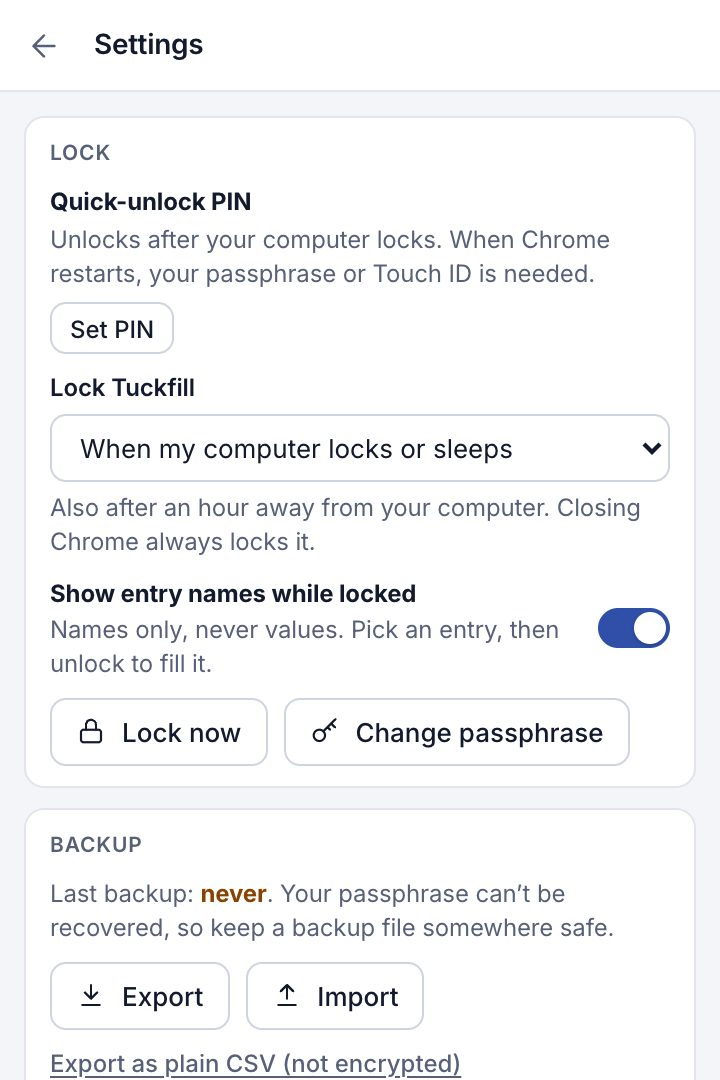
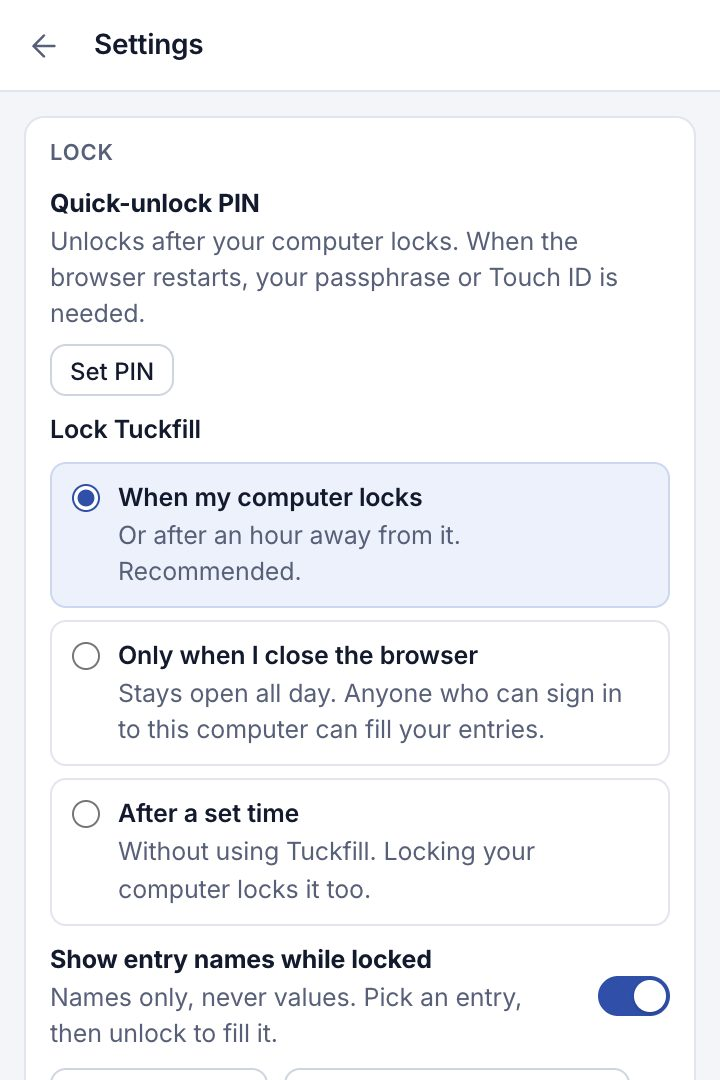
Update for 0.6.0-beta.1: Firefox and Safari install, lock per browser, fresh screenshots

Changed region(s): [[0.0611, 0.1528, 0.9472, 1.0], [0.0917, 0.1222, 0.1528, 0.1528]]

diff --git a/README.id.md b/README.id.md
@@ -12,9 +12,9 @@
 
 <p align="center">
   <img src="https://img.shields.io/badge/status-beta-ff9a3d" alt="Status: beta">
-  <img src="https://img.shields.io/badge/Chrome-Manifest%20V3-2f4fa8" alt="Chrome Manifest V3">
+  <img src="https://img.shields.io/badge/Chrome%20·%20Firefox%20·%20Safari-Manifest%20V3-2f4fa8" alt="Chrome, Firefox and Safari, Manifest V3">
   <img src="https://img.shields.io/badge/network%20requests-none-1c7c4e" alt="No network requests">
-  <img src="https://img.shields.io/badge/size-52%20KB%20gzipped-2f4fa8" alt="Size: 52 KB gzipped">
+  <img src="https://img.shields.io/badge/size-54%20KB%20gzipped-2f4fa8" alt="Size: 54 KB gzipped">
   <img src="https://img.shields.io/badge/license-MIT-131a2e" alt="License: MIT">
 </p>
 
@@ -26,7 +26,7 @@
   <img src="images/picker-set.jpg" alt="Picker Tuckfill terbuka di bawah field Corporate ID, menawarkan set yang mengisi tiga field" width="440">
 </p>
 
-Tuckfill adalah Chrome extension untuk teks yang sering kamu ketik di form: email test, password, alamat, template. Simpan sekali, lalu isi field mana pun lewat tombol kecil di dalam field-nya. Semua data tersimpan **terenkripsi di laptop kamu sendiri** dan nggak dikirim ke mana pun.
+Tuckfill adalah browser extension (Chrome, Firefox, Safari) untuk teks yang sering kamu ketik di form: email test, password, alamat, template. Simpan sekali, lalu isi field mana pun lewat tombol kecil di dalam field-nya. Semua data tersimpan **terenkripsi di laptop kamu sendiri** dan nggak dikirim ke mana pun.
 
 > Panduan ini juga ada di dalam zip Tuckfill sebagai `PANDUAN.html`. Bisa dibuka offline dan di-print ke PDF.
 
@@ -44,6 +44,10 @@ Tuckfill adalah Chrome extension untuk teks yang sering kamu ketik di form: emai
 <img src="images/install.jpg" width="720" alt="Halaman chrome://extensions dengan Developer mode on dan card Tuckfill">
 
 > **Update ke versi baru:** timpa isi folder yang **sama** dengan isi zip baru, lalu klik ikon reload di card Tuckfill di `chrome://extensions`. Data kamu tetap aman.
+
+**Firefox (140 ke atas).** Tidak perlu unzip: buka file `tuckfill-firefox-<versi>.xpi` di Firefox (drag ke jendelanya), lalu klik **Add**. Tetap terpasang walau Firefox ditutup. Touch ID belum bisa di Firefox, jadi pakai PIN.
+
+**Safari (26 ke atas).** Unzip seperti di atas. Di Safari → Settings → Advanced, centang **Show features for web developers**. Lalu di tab **Developer**, centang **Allow unsigned extensions**, klik **Add Temporary Extension…** dan pilih folder tadi. Di tab **Extensions**, pastikan Tuckfill tercentang. Safari mencopot Tuckfill setiap kali ditutup (⌘Q), jadi ulangi **Allow unsigned extensions** dan **Add Temporary Extension** setiap membuka Safari. Entry kamu tetap ada.
 
 ## 2. Getting started
 
@@ -85,7 +89,7 @@ Tuckfill cuma aktif di site yang kamu pilih sendiri.
 
 1. Buka site yang mau di-fill.
 2. Klik ikon Tuckfill, lalu nyalakan switch di bagian atas (**Show the in-field button here**).
-3. Chrome akan minta izin untuk **site itu saja**. Klik **Allow**.
+3. Browser akan minta izin untuk **site itu saja**. Klik **Allow**.
 
 Untuk mematikannya, matikan lagi switch yang sama. Semua site yang sudah on ada di Settings → **Sites**.
 
@@ -130,9 +134,9 @@ Semuanya ada di **Settings** (ikon slider di kanan atas popup).
 
 <img src="images/settings.jpg" width="300" alt="Settings Tuckfill: Lock, Backup, Sites">
 
-**Touch ID / Windows Hello.** Buka Settings → Lock → **Unlock with Touch ID**, atau terima tawarannya setelah kamu memasukkan passphrase. Simpan passkey-nya ke **iCloud Keychain** atau **Google Password Manager**, jangan ke "This Chrome profile". Passphrase tetap diminta tiap 2 minggu supaya nggak lupa. Di dalam halaman web, Touch ID cuma jalan di site https.
+**Touch ID / Windows Hello.** Buka Settings → Lock → **Unlock with Touch ID**, atau terima tawarannya setelah kamu memasukkan passphrase. Simpan passkey-nya ke **iCloud Keychain** atau **Google Password Manager**, jangan ke "This Chrome profile". Passphrase tetap diminta tiap 2 minggu supaya nggak lupa. Di dalam halaman web, Touch ID cuma jalan di site https. Bisa di Chrome dan Safari, belum bisa di Firefox.
 
-**Auto-lock.** Tuckfill otomatis ke-lock kalau nggak dipakai (default 15 menit) dan saat Chrome ditutup.
+**Auto-lock.** Settings → **Lock Tuckfill**. Default-nya ke-lock saat laptop dikunci, atau setelah 1 jam laptop nggak disentuh. Firefox nggak tahu kapan laptop dikunci, jadi di sana ke-lock setelah 15 menit laptop nggak disentuh; Safari nggak bisa melihat aktivitas sama sekali, jadi di sana ke-lock 15 menit setelah terakhir pakai Tuckfill. Pilihan lain: hanya saat browser ditutup, atau setelah waktu tertentu. Menutup browser, atau window terakhirnya, selalu mengunci. Kalau pakai **PIN**, cukup ketik PIN setelah ke-lock; setelah browser restart, tetap perlu passphrase (atau Touch ID).
 
 **Backup.**
 - **Export** menyimpan file `.tuckfill` yang terenkripsi, dibuka dengan passphrase yang sama. Lakukan rutin, karena ini satu-satunya cadangan kalau laptop rusak atau passphrase lupa.
@@ -142,7 +146,7 @@ Semuanya ada di **Settings** (ikon slider di kanan atas popup).
 
 ## 7. Report a bug
 
-1. Buka Settings, scroll ke **About**, lalu klik **Copy**. Ini meng-copy versi Tuckfill, versi Chrome, dan OS, **tanpa** entry atau site kamu.
+1. Buka Settings, scroll ke **About**, lalu klik **Copy**. Ini meng-copy versi Tuckfill, versi browser, dan OS, **tanpa** entry atau site kamu.
 2. Kirim lewat chat, atau buka **Issue** di repo ini, dengan format:
 
 | | |
@@ -166,7 +170,7 @@ Semuanya ada di **Settings** (ikon slider di kanan atas popup).
 - Value yang di-fill pasti terlihat oleh site itu (memang itu tujuannya), jadi fill hanya di site yang kamu percaya.
 
 **Tombol nggak muncul di field?**
-Pastikan site switch di popup sudah on. Tuckfill cuma jalan di halaman http/https biasa, nggak jalan di halaman `chrome://` atau Chrome Web Store.
+Pastikan site switch di popup sudah on. Tuckfill cuma jalan di halaman http/https biasa, nggak jalan di halaman bawaan browser (`chrome://`, `about:`) atau store add-on-nya.
 
 **Entry hilang setelah update?**
 Harusnya nggak, karena Tuckfill punya ID yang tetap di folder mana pun. Pastikan versi lama sudah di-*remove* (jangan sampai ada dua Tuckfill terpasang), lalu buka popup lagi. Kalau masih kosong, restore dari backup dan laporkan.

diff --git a/README.md b/README.md
@@ -12,9 +12,9 @@
 
 <p align="center">
   <img src="https://img.shields.io/badge/status-beta-ff9a3d" alt="Status: beta">
-  <img src="https://img.shields.io/badge/Chrome-Manifest%20V3-2f4fa8" alt="Chrome Manifest V3">
+  <img src="https://img.shields.io/badge/Chrome%20·%20Firefox%20·%20Safari-Manifest%20V3-2f4fa8" alt="Chrome, Firefox and Safari, Manifest V3">
   <img src="https://img.shields.io/badge/network%20requests-none-1c7c4e" alt="No network requests">
-  <img src="https://img.shields.io/badge/size-52%20KB%20gzipped-2f4fa8" alt="Size: 52 KB gzipped">
+  <img src="https://img.shields.io/badge/size-54%20KB%20gzipped-2f4fa8" alt="Size: 54 KB gzipped">
   <img src="https://img.shields.io/badge/license-MIT-131a2e" alt="License: MIT">
 </p>
 
@@ -26,7 +26,7 @@
   <img src="images/picker-set.jpg" alt="The Tuckfill picker open under a Corporate ID field, offering a set that fills three fields" width="440">
 </p>
 
-Tuckfill is a Chrome extension for the text you keep typing into forms: test emails, passwords, addresses, templates. Save it once, then fill any field from a small button inside it. Everything is stored **encrypted on your own computer** and never sent anywhere.
+Tuckfill is a browser extension (Chrome, Firefox, Safari) for the text you keep typing into forms: test emails, passwords, addresses, templates. Save it once, then fill any field from a small button inside it. Everything is stored **encrypted on your own computer** and never sent anywhere.
 
 > This guide also ships inside the Tuckfill zip as `PANDUAN.html` (Indonesian). It opens offline and prints to PDF.
 
@@ -44,6 +44,10 @@ Tuckfill is a Chrome extension for the text you keep typing into forms: test ema
 <img src="images/install.jpg" width="720" alt="chrome://extensions with Developer mode on and the Tuckfill card">
 
 > **Updating:** replace the contents of the **same** folder with the new zip, then click the reload icon on the Tuckfill card in `chrome://extensions`. Your data stays.
+
+**Firefox (140 or later).** No unzipping: open `tuckfill-firefox-<version>.xpi` in Firefox (drag it onto the window) and click **Add**. It stays installed when Firefox closes. Touch ID isn't available in Firefox; use a PIN.
+
+**Safari (26 or later).** Unzip as above. In Safari → Settings → Advanced, tick **Show features for web developers**. Then on the **Developer** tab tick **Allow unsigned extensions**, click **Add Temporary Extension…** and pick the folder. On the **Extensions** tab, make sure Tuckfill is ticked. Safari removes Tuckfill every time it quits (⌘Q), so repeat **Allow unsigned extensions** and **Add Temporary Extension** each time you open Safari. Your entries stay.
 
 ## 2. Getting started
 
@@ -85,7 +89,7 @@ Tuckfill only runs on sites you choose.
 
 1. Open the site you want to fill.
 2. Click the Tuckfill icon and flip the switch at the top (**Show the in-field button here**).
-3. Chrome asks for access to **that site only**. Click **Allow**.
+3. The browser asks for access to **that site only**. Click **Allow**.
 
 To turn it off, flip the same switch. All sites you've turned on are listed under Settings → **Sites**.
 
@@ -130,9 +134,9 @@ All of this lives in **Settings** (the sliders icon at the top right of the popu
 
 <img src="images/settings.jpg" width="300" alt="Tuckfill Settings: Lock, Backup, Sites">
 
-**Touch ID / Windows Hello.** Settings → Lock → **Unlock with Touch ID**, or accept the offer after you type your passphrase. Save the passkey to **iCloud Keychain** or **Google Password Manager**, not "This Chrome profile". Tuckfill still asks for your passphrase every 2 weeks so you don't forget it. Inside web pages, Touch ID works on https sites only.
+**Touch ID / Windows Hello.** Settings → Lock → **Unlock with Touch ID**, or accept the offer after you type your passphrase. Save the passkey to **iCloud Keychain** or **Google Password Manager**, not "This Chrome profile". Tuckfill still asks for your passphrase every 2 weeks so you don't forget it. Inside web pages, Touch ID works on https sites only. Works in Chrome and Safari, not in Firefox.
 
-**Auto-lock.** Tuckfill locks itself after a period of inactivity (15 minutes by default) and when Chrome closes.
+**Auto-lock.** Settings → **Lock Tuckfill**. By default it locks when your computer locks, or after an hour away from it. Firefox can't tell when the computer locks, so there it locks after 15 minutes away; Safari can't see any activity, so there it locks 15 minutes after you last used Tuckfill. Other choices: only when you close the browser, or after a set time. Closing the browser, or its last window, always locks it. With a **PIN**, you type the PIN to go on after a lock; after the browser restarts, the passphrase (or Touch ID) is needed.
 
 **Backup.**
 - **Export** saves an encrypted `.tuckfill` file that opens with the same passphrase. Do it regularly: it's your only copy if your laptop dies or you forget the passphrase.
@@ -142,7 +146,7 @@ All of this lives in **Settings** (the sliders icon at the top right of the popu
 
 ## 7. Report a bug
 
-1. Open Settings, scroll to **About**, and click **Copy**. This copies your Tuckfill, Chrome and OS versions, **without** any entries or sites.
+1. Open Settings, scroll to **About**, and click **Copy**. This copies your Tuckfill, browser and OS versions, **without** any entries or sites.
 2. Send it in chat, or open an **Issue** in this repo, using this format:
 
 | | |
@@ -166,7 +170,7 @@ All of this lives in **Settings** (the sliders icon at the top right of the popu
 - Whatever you fill is visible to that site (that's the point), so only fill on sites you trust.
 
 **The button doesn't show up in a field?**
-Check that the site switch in the popup is on. Tuckfill only runs on regular http/https pages, not on `chrome://` pages or the Chrome Web Store.
+Check that the site switch in the popup is on. Tuckfill only runs on regular http/https pages, not on the browser's own pages (`chrome://`, `about:`) or its add-on store.
 
 **My entries disappeared after an update?**
 They shouldn't: Tuckfill keeps the same ID whatever folder it's in. Make sure the old version is *removed* (never have two Tuckfills installed), then open the popup again. If it's still empty, restore from a backup and report it.
